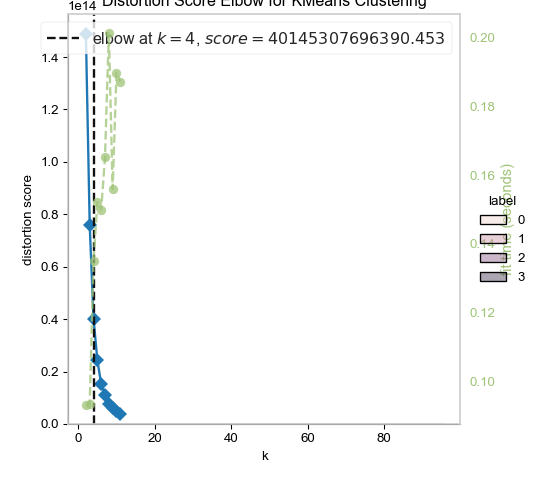
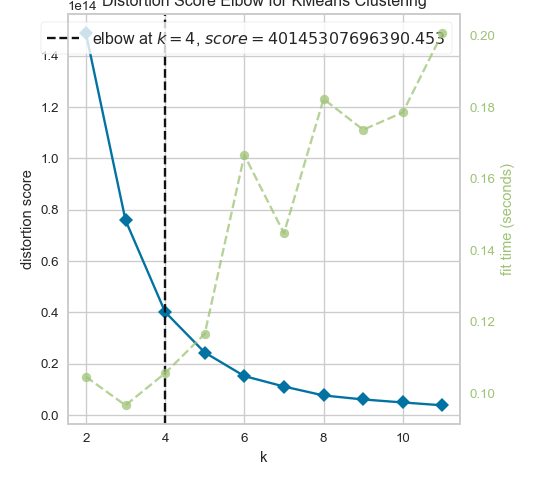
update modelisation part

diff --git a/content/modelisation/6_clustering/index.md b/content/modelisation/6_clustering/index.md
@@ -13,7 +13,7 @@ jupyter:
 title: "Clustering"
 date: 2020-10-15T13:00:00Z
 draft: false
-weight: 50
+weight: 60
 output: 
   html_document:
     keep_md: true
@@ -94,8 +94,10 @@ en fonction du label obtenu
 
 
 ```
-## <seaborn.axisgrid.FacetGrid object at 0x0000000006FDE850>
+## <seaborn.axisgrid.FacetGrid object at 0x000000000B1C4460>
 ```
+
+{{<figure src="unnamed-chunk-6-1.png" >}}
 
 
 ## Choisir le nombre de classes
@@ -142,8 +144,7 @@ visualizer.fit(df2[xvars])        # Fit the data to the visualizer
 ```
 
 ```
-## KElbowVisualizer(ax=<AxesSubplot:xlabel='rep16_frac', ylabel='Count'>, k=None,
-##                  model=None)
+## KElbowVisualizer(ax=<AxesSubplot:>, k=None, model=None)
 ## 
 ## C:\Users\W3CRK9\AppData\Local\R-MINI~1\envs\R-RETI~1\lib\site-packages\sklearn\base.py:209: FutureWarning: From version 0.24, get_params will raise an AttributeError if a parameter cannot be retrieved as an instance attribute. Previously it would return None.
 ##   warnings.warn('From version 0.24, get_params will raise an '
@@ -155,6 +156,9 @@ visualizer.show()        # Finalize and render the figure
 
 {{<figure src="elbow-1.png" >}}
 {{<figure src="elbow-2.png" >}}
+
+`yellowbrick` permet également de représenter des silhouettes mais 
+l'interprétation en est moins aisée:
   
 
 
